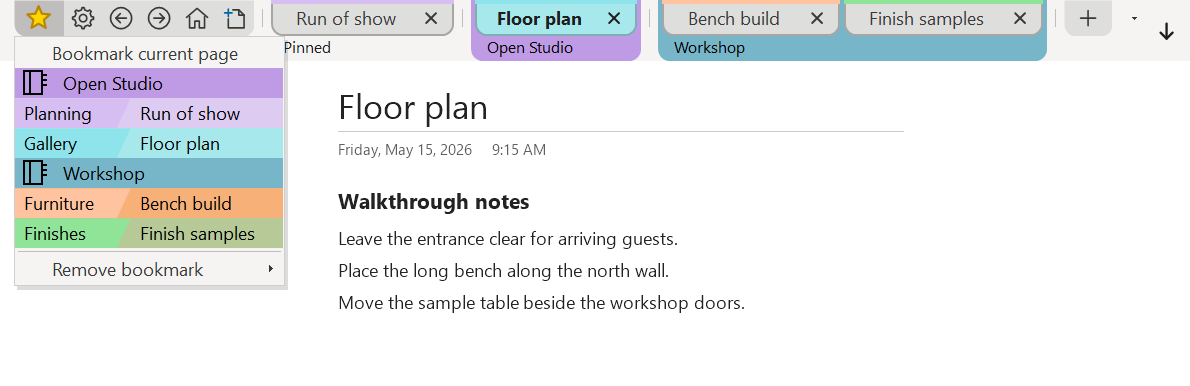
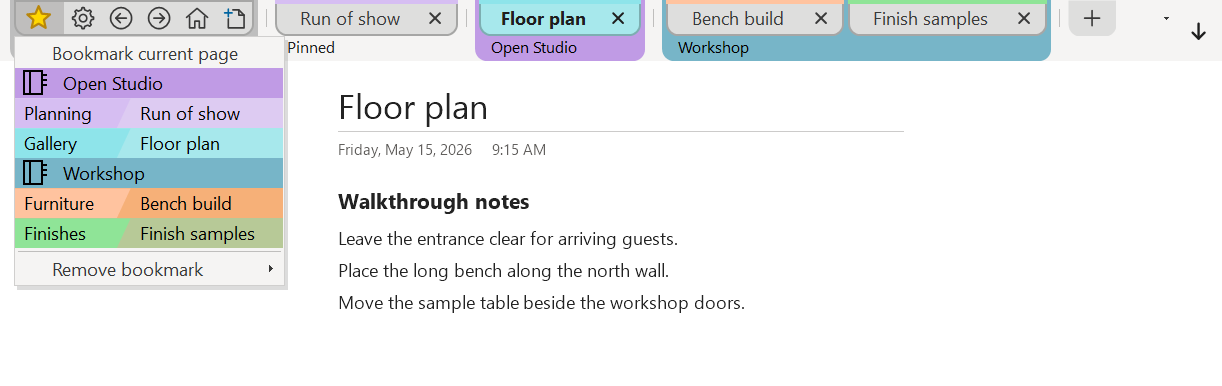
Give MoreTabs Tools a shared tab outline and a theme-neutral group band

diff --git a/addins/page-tabs/prototype/AppearanceTests.cs b/addins/page-tabs/prototype/AppearanceTests.cs
@@ -155,12 +155,15 @@ internal static class AppearanceTests
         gear.HideDropDown();
         var selected = strip.ActiveTabKey;
         var grouped = strip.Items.OfType<PageTabButton>().ToArray();
+        var tools = strip.Host.Captions.Controls.OfType<NotebookTabLabel>().Single(l => l.Text == "Tools");
         colors.PerformClick();
         foreach (var surface in new[] { Color.White, Color.FromArgb(18,18,18) })
         {
             strip.ApplyAppearance(new HostChrome { Dpi = layout.Dpi, Surface = surface });
-            Check(grouped.All(t => t.Group.GroupFill.IsEmpty && t.Group.ForeColor == ((TabRenderer)strip.Renderer).Ink),
-                "Turning off notebook colors must restore the theme background and caption text.");
+            var palette = (TabRenderer)strip.Renderer;
+            Check(grouped.All(t => t.Group.GroupFill.IsEmpty && t.Group.ForeColor == palette.Ink) &&
+                tools.GroupFill == palette.ToolsBand && tools.ForeColor == palette.NotebookInk(palette.ToolsBand),
+                "Turning off notebook colors must preserve the neutral Tools band across theme changes.");
         }
         colors.PerformClick();
         using (var image = new Bitmap(strip.Width, strip.Height))
@@ -418,8 +421,14 @@ internal static class AppearanceTests
                 "The new-tab button must have a centered plus and the same dock-facing shape as the page tabs.");
             var band = strip.Host.Captions;
             var tools = band.Controls.OfType<NotebookTabLabel>().Single(l => l.Text == "Tools" && l.Notebook == null);
-            Check(tools.Visible && tools.ForeColor == palette.Ink && tools.Font.Style == FontStyle.Regular &&
-                tools.Left == star.Bounds.Left && tools.Padding.Left == TabRenderer.CornerRadius(chrome.Dpi) && tools.Right == strip.MenuTabBounds.Right &&
+            int toolsPad = 2 * edge;
+            Color toolsFill = palette.ToolsBand;
+            Color toolsInk = chrome.HighContrast ? SystemColors.ControlText : palette.NotebookInk(toolsFill);
+            Check(tools.Visible && tools.ForeColor == toolsInk && tools.Font.Style == FontStyle.Regular && tools.GroupFill == toolsFill &&
+                (chrome.HighContrast ? toolsFill == SystemColors.Control : toolsFill.R == toolsFill.G && toolsFill.G == toolsFill.B &&
+                    toolsFill.ToArgb() != palette.Surface.ToArgb()) &&
+                tools.Left == Math.Max(0, star.Bounds.Left - toolsPad) && tools.Left + tools.Padding.Left == star.Bounds.Left + TabRenderer.CornerRadius(chrome.Dpi) &&
+                tools.Right == strip.MenuTabBounds.Right + toolsPad &&
                 strip.Items.OfType<ToolButton>().All(t => t.Bounds.Top == star.Bounds.Top && t.Height == star.Height),
                 "Tools misalignment at " + chrome.Dpi + " DPI: label " + tools.Bounds + ", group " + strip.MenuTabBounds +
                 ", star " + star.Bounds + ", first command " + strip.Items.OfType<ToolButton>().First().Bounds + ".");
@@ -428,6 +437,13 @@ internal static class AppearanceTests
             using (var captions = new Bitmap(band.Width, band.Height))
             {
                 band.DrawToBitmap(captions, band.ClientRectangle);
+                int toolsOuter = bottom ? 0 : band.Height - 1, toolsJoin = bottom ? band.Height - 1 : 0;
+                Check(captions.GetPixel(tools.Left, toolsOuter).ToArgb() == palette.Surface.ToArgb() &&
+                    captions.GetPixel(tools.Right - 1, toolsOuter).ToArgb() == palette.Surface.ToArgb() &&
+                    captions.GetPixel(tools.Right - 1, toolsJoin).ToArgb() == toolsFill.ToArgb() &&
+                    captions.GetPixel(tools.Left + tools.Width / 2, toolsOuter).ToArgb() == toolsFill.ToArgb() &&
+                    bitmap.GetPixel(tools.Right - 1, strip.Height / 2).ToArgb() == toolsFill.ToArgb(),
+                    "Tools must have one continuous neutral band, rounded toward the editor.");
                 foreach (var group in strip.Items.OfType<PageTabButton>().Where(t => t.Placement == ToolStripItemPlacement.Main).GroupBy(t => t.Group))
                 {
                     var label = group.Key;
@@ -482,15 +498,26 @@ internal static class AppearanceTests
                 "The bookmark star must have a solid yellow center.");
             Check(bitmap.GetPixel(starCenter, star.Bounds.Top + 2 * edge).ToArgb() == starBackground.ToArgb() &&
                 bitmap.GetPixel(starCenter, star.Bounds.Bottom - 3 * edge).ToArgb() == starBackground.ToArgb() &&
-                bitmap.GetPixel(star.Bounds.Left, FlatEdgeY(star, !bottom, 0)).ToArgb() == palette.Surface.ToArgb() &&
-                bitmap.GetPixel(strip.MenuTabBounds.Right - 1, FlatEdgeY(star, !bottom, 0)).ToArgb() == palette.Surface.ToArgb() &&
+                bitmap.GetPixel(star.Bounds.Left, FlatEdgeY(star, !bottom, 0)).ToArgb() == toolsFill.ToArgb() &&
+                bitmap.GetPixel(strip.MenuTabBounds.Right - 1, FlatEdgeY(star, !bottom, 0)).ToArgb() == toolsFill.ToArgb() &&
                 bitmap.GetPixel(star.Bounds.Right - 1, FlatEdgeY(star, !bottom, 2 * edge)).ToArgb() == starBackground.ToArgb() &&
                 bitmap.GetPixel(gear.Bounds.Left, FlatEdgeY(star, !bottom, 2 * edge)).ToArgb() == gearBackground.ToArgb(),
                 "Only the two outside corners of the shared Tools tab should be rounded.");
+            if (!chrome.HighContrast)
+            {
+                var inactive = strip.Items.OfType<PageTabButton>().First(t => !t.Checked && !t.Selected && t.Placement == ToolStripItemPlacement.Main);
+                int middle = star.Bounds.Top + star.Height / 2;
+                var border = bitmap.GetPixel(inactive.Bounds.Left, middle).ToArgb();
+                Check(bitmap.GetPixel(star.Bounds.Left, middle).ToArgb() == border &&
+                    bitmap.GetPixel(strip.MenuTabBounds.Right - 1, middle).ToArgb() == border &&
+                    bitmap.GetPixel(gear.Bounds.Left, FlatEdgeY(star, bottom, 0)).ToArgb() == border &&
+                    bitmap.GetPixel(gear.Bounds.Left, FlatEdgeY(star, !bottom, 0)).ToArgb() == border,
+                    "The shared Tools perimeter must match the inactive page tab outline.");
+            }
             // Read through the two side points, ignoring very faint antialiasing pixels.
             int armY = star.Bounds.Top + star.Height / 2 - HostChrome.Px(2, chrome.Dpi);
             int starLeft = -1;
-            for (int x = star.Bounds.Left + 1; x < star.Bounds.Right && starLeft < 0; x++)
+            for (int x = star.Bounds.Left + edge; x < star.Bounds.Right && starLeft < 0; x++)
                 for (int y = armY - edge; y <= armY + edge; y++)
                 {
                     Color c = bitmap.GetPixel(x, y);
@@ -510,7 +537,7 @@ internal static class AppearanceTests
                 {
                     var leftTab = left as PageTabButton;
                     var rightTab = right as PageTabButton;
-                    int leftGap = x - (leftTab == null ? left.Bounds.Right : leftTab.Group.Right);
+                    int leftGap = x - (leftTab == null ? tools.Right : leftTab.Group.Right);
                     int rightGap = (rightTab == null ? right.Bounds.Left : rightTab.Group.Left) - x - 1;
                     Check(leftGap > 0 && leftGap == rightGap, "Divider gaps in pixels: left " + leftGap + ", right " + rightGap);
                     for (int gap = 1; gap <= leftGap; gap++)

diff --git a/addins/page-tabs/prototype/PageStrip.cs b/addins/page-tabs/prototype/PageStrip.cs
@@ -577,11 +577,13 @@ internal sealed class PageStrip : ToolStrip
             ForeColor = appearance.Ink;
             Host.Style(appearance);
             foreach (var label in labels.Values) StyleCaption(label);
-            toolsLabel.ForeColor = appearance.Ink;
+            toolsLabel.GroupFill = appearance.ToolsBand;
+            toolsLabel.ForeColor = highContrast ? SystemColors.ControlText : appearance.NotebookInk(appearance.ToolsBand);
+            toolsLabel.Invalidate();
             if (state != null) RefreshOptions();
         }
         // The notebook inset anchors the visible glyph. Keep some clickable space to its left.
-        int iconPadding = Math.Min(HostChrome.Px(8, chrome.Dpi), chrome.Inset);
+        int iconPadding = Math.Min(HostChrome.Px(8, chrome.Dpi), Math.Max(0, chrome.Inset - TabMargin(chrome.Dpi).Horizontal));
         var inset = new Padding(chrome.Inset - iconPadding, 0, HostChrome.Px(2, chrome.Dpi), 0);
         if (Padding != inset) Padding = inset;
         if (bookmarks.Padding.Left != iconPadding) bookmarks.Padding = new Padding(iconPadding, 0, 0, 0);
@@ -632,8 +634,7 @@ internal sealed class PageStrip : ToolStrip
     {
         uint dpi = appearance.Dpi;
         divider.AutoSize = false;
-        // Tools have no side margins. Match the first tab's inset on the Tools side.
-        divider.Margin = divider == bookmarkDivider ? new Padding(TabMargin(dpi).Left, 0, 0, 0) : Padding.Empty;
+        divider.Margin = Padding.Empty;
         divider.Size = new Size(2 * HostChrome.Px(4, dpi) + 1, HostChrome.Px(25, dpi));
         divider.Overflow = ToolStripItemOverflow.Never;
     }
@@ -1041,7 +1042,7 @@ internal sealed class PageStrip : ToolStrip
         if (!WantsCaptionRow) return;
         // The caption and the tab strip have separate windows. Continue each visible
         // caption's fill across the tab row before WinForms paints the individual tabs.
-        foreach (var label in labels.Values)
+        foreach (var label in Host.Captions.Controls.OfType<NotebookTabLabel>())
         {
             if (!label.Visible || label.GroupFill.IsEmpty) continue;
             using (var fill = new SolidBrush(label.GroupFill))
@@ -1051,7 +1052,7 @@ internal sealed class PageStrip : ToolStrip
     private void AlignNotebookCaptions()
     {
         var tools = MenuTabBounds;
-        toolsLabel.Align(tools.Left, tools.Right, Host.Captions.Height, appearance.Dpi);
+        toolsLabel.Align(tools.Left, tools.Right, Host.Captions.Height, appearance.Dpi, GroupEndPadding(toolsLabel));
         // Use the final main-row item bounds. Overflow pages and notebook names consume no caption width.
         var visible = Items.OfType<PageTabButton>().Where(t => t.Placement == ToolStripItemPlacement.Main).ToLookup(t => t.Group);
         foreach (var label in labels.Values)
@@ -1077,12 +1078,20 @@ internal sealed class PageStrip : ToolStrip
         foreach (var tab in tabs) tab.WidthLimit = 0;
         var visible = new HashSet<ToolStripItem>();
         var visibleGroups = new HashSet<NotebookTabLabel>();
+        var margin = TabMargin(appearance.Dpi);
+        // Reserve the band's right padding before the divider. The left padding fits in the notebook icon inset.
+        bookmarkDivider.Margin = new Padding(margin.Left + GroupEndPadding(toolsLabel), 0, 0, 0);
         // With the star hidden the gear is the first icon and alone may have to span the Tools caption.
         options.TabWidth = bookmarks.Available ? HostChrome.Px(25, appearance.Dpi) : Math.Max(bookmarks.TabWidth, HostChrome.Px(34, appearance.Dpi));
+        if (!bookmarks.Available && WantsCaptionRow)
+        {
+            int captionWidth = TextRenderer.MeasureText(toolsLabel.Text, toolsLabel.Font, Size.Empty,
+                TextFormatFlags.SingleLine | TextFormatFlags.NoPadding).Width;
+            options.TabWidth = Math.Max(options.TabWidth, captionWidth + 2 * TabRenderer.CornerRadius(appearance.Dpi));
+        }
         int space = DisplayRectangle.Width - ItemWidth(options) - ItemWidth(bookmarkDivider) - ItemWidth(add);
         if (bookmarks.Available) space -= ItemWidth(bookmarks);
         int dividerWidth = bookmarkDivider.Width;
-        var margin = TabMargin(appearance.Dpi);
         var groups = tabs.ToLookup(t => t.Group);
         var groupWidths = groups.ToDictionary(g => g.Key, g => dividerWidth + 2 * GroupEndPadding(g.Key));
         var tools = toolGroup.OfType<ToolButton>().Where(t => t.Available).ToArray();

diff --git a/addins/page-tabs/prototype/TabRenderer.cs b/addins/page-tabs/prototype/TabRenderer.cs
@@ -135,16 +135,16 @@ internal sealed class NotebookTabLabel : Label
     internal void Align(int left, int right, int height, uint dpi, int endPadding = 0)
     {
         cornerRadius = TabRenderer.CornerRadius(dpi);
-        int inset = cornerRadius + endPadding;
+        int bandLeft = Math.Max(0, left - endPadding);
         // The menu font leaves more space above its visible glyphs than below them.
-        Padding = new Padding(inset, 0, GroupFill.IsEmpty ? 0 : inset, 2 * HostChrome.Px(1, dpi));
-        Bounds = Rectangle.FromLTRB(left - endPadding, 0, right + endPadding, height);
+        Padding = new Padding(cornerRadius + left - bandLeft, 0, GroupFill.IsEmpty ? 0 : cornerRadius + endPadding, 2 * HostChrome.Px(1, dpi));
+        Bounds = Rectangle.FromLTRB(bandLeft, 0, right + endPadding, height);
     }
 }
 
 internal sealed class TabRenderer : ToolStripProfessionalRenderer
 {
-    internal readonly Color Surface, Ink, MutedInk, Tab, Active, Hover, ActiveMarker;
+    internal readonly Color Surface, Ink, MutedInk, Tab, Active, Hover, ActiveMarker, ToolsBand;
     private readonly bool contrast;
     internal bool HighContrast { get { return contrast; } }
     internal readonly uint Dpi;
@@ -190,6 +190,8 @@ internal sealed class TabRenderer : ToolStripProfessionalRenderer
         MutedInk = highContrast ? Ink : Blend(Ink, Surface, 13);
         Tab = highContrast ? Surface : Blend(Surface, toward, 9);
         Active = highContrast ? SystemColors.Highlight : Blend(Surface, toward, 22);
+        int gray = (299 * Active.R + 587 * Active.G + 114 * Active.B) / 1000;
+        ToolsBand = highContrast ? SystemColors.Control : Color.FromArgb(gray, gray, gray);
         Color accent = dark ? Color.FromArgb(207, 169, 255) : Color.FromArgb(99, 48, 160);
         double a = Luminance(accent), b = Luminance(Active);
         if ((Math.Max(a, b) + .05) / (Math.Min(a, b) + .05) < 3)
@@ -346,7 +348,8 @@ internal sealed class TabRenderer : ToolStripProfessionalRenderer
         try
         {
             var strip = e.Item.Owner as PageStrip;
-            if (page == null && strip != null && !(e.Item is PagePicker))
+            bool sharedTools = page == null && strip != null && !(e.Item is PagePicker);
+            if (sharedTools)
             {
                 // The tools share an outline while retaining individual hit targets.
                 Rectangle both = strip.MenuTabBounds;
@@ -360,15 +363,15 @@ internal sealed class TabRenderer : ToolStripProfessionalRenderer
             using (var fill = new SolidBrush(Background(e.Item)))
             {
                 if (shape.PointCount == 0) return;
-                if (page != null && !contrast)
+                if ((page != null || sharedTools) && !contrast)
                 {
                     int edge = HostChrome.Px(1, Dpi);
                     e.Graphics.PixelOffsetMode = PixelOffsetMode.Half;
-                    using (var border = new SolidBrush(Blend(fill.Color, Color.Black, 25)))
+                    using (var border = new SolidBrush(Blend(sharedTools ? Tab : fill.Color, Color.Black, 25)))
                         e.Graphics.FillPath(border, shape);
                     var saved = e.Graphics.Save();
-                    e.Graphics.TranslateTransform(edge, bottom ? edge : 0);
-                    using (var body = TabOutline(w - 2 * edge, h - edge, CornerRadius(Dpi) - edge, bottom))
+                    e.Graphics.TranslateTransform(edge, edge);
+                    using (var body = TabOutline(w - 2 * edge, h - 2 * edge, CornerRadius(Dpi) - edge, bottom))
                         e.Graphics.FillPath(fill, body);
                     e.Graphics.Restore(saved);
                 }

diff --git a/addins/page-tabs/prototype/PrototypeTests.cs b/addins/page-tabs/prototype/PrototypeTests.cs
@@ -535,6 +535,10 @@ internal static class PrototypeTests
         }
         Check(strip.MenuTabBounds == gear.Bounds && gear.Width < fullWidth && strip.ActiveTabKey == key,
             "Settings alone must keep its hit target and release the space used by hidden buttons.");
+        var caption = strip.Host.Captions.Controls.OfType<NotebookTabLabel>().Single(l => l.Text == "Tools");
+        int textWidth = TextRenderer.MeasureText(caption.Text, caption.Font, Size.Empty, TextFormatFlags.SingleLine | TextFormatFlags.NoPadding).Width;
+        Check(caption.Visible && caption.Width - caption.Padding.Horizontal >= textWidth,
+            "The complete Tools label must fit when Settings is the only button.");
         int width = strip.Host.Width;
         strip.Host.Width = 170;
         LeftClickItem(gear);
@@ -777,7 +781,7 @@ internal static class PrototypeTests
                 "Tab overflow displaced the far-right move button.");
             var visible = strip.Items.OfType<PageTabButton>().Where(t => t.Placement == ToolStripItemPlacement.Main).ToArray();
             var toolsLabel = strip.Host.Captions.Controls.OfType<NotebookTabLabel>().Single(l => l.Text == "Tools" && l.Notebook == null);
-            Check(toolsLabel.Visible && toolsLabel.Right == strip.MenuTabBounds.Right &&
+            Check(toolsLabel.Visible && toolsLabel.Right == strip.MenuTabBounds.Right + 2 * HostChrome.Px(1, layout.Dpi) &&
                 strip.Items.OfType<ToolButton>().All(t => t.Placement == ToolStripItemPlacement.Overflow),
                 "A narrow window must keep the Tools caption aligned and its commands available in overflow.");
             var headers = strip.Host.Captions.Controls.OfType<NotebookTabLabel>().Where(l => l.Visible && l != toolsLabel).ToArray();

diff --git a/addins/page-tabs/README.md b/addins/page-tabs/README.md
@@ -63,7 +63,9 @@ All three grouping and label options start enabled. Changes apply immediately. M
 | **Show notebook labels** | Tabs stay grouped. All captions, including **Pinned**, disappear and OneNote gets the whole row back. The label color option is grayed out. |
 | **Use notebook colors for labels** | The notebook bands disappear and the labels use the theme's regular text color. Windows high contrast uses the system background and text colors. |
 
-With grouping on, the notebook color spans the caption and the space behind its visible tabs. Each end of the colored band has the same padding as the gap between two tabs. A thin, darker outline separates each page tab from the band. The notebook name is vertically centered in the caption, with black or white text chosen for contrast. The band is rounded along the edge facing the page, below the tabs when docked at the top and above them when docked at the bottom. The name starts one corner radius in from the first visible tab. Hover over a clipped caption to read its full name. Tools and Pinned use the theme background.
+With grouping on, the notebook color spans the caption and the space behind its visible tabs. Each end of the colored band has the same padding as the gap between two tabs. A thin, darker outline separates each page tab from the band. The notebook name is vertically centered in the caption, with black or white text chosen for contrast. The band is rounded along the edge facing the page, below the tabs when docked at the top and above them when docked at the bottom. The name starts one corner radius in from the first visible tab. Hover over a clipped caption to read its full name.
+
+The Tools buttons share the outline of an inactive page tab. A neutral gray band wraps the buttons and their label, follows the OneNote theme, and resizes to fit the visible tools. Windows high contrast uses the system control and text colors. Pinned uses the strip background.
 
 Groups appear in order of their first open tab. Tabs within a group keep their saved order. Notebook IDs distinguish notebooks with the same name.
 
